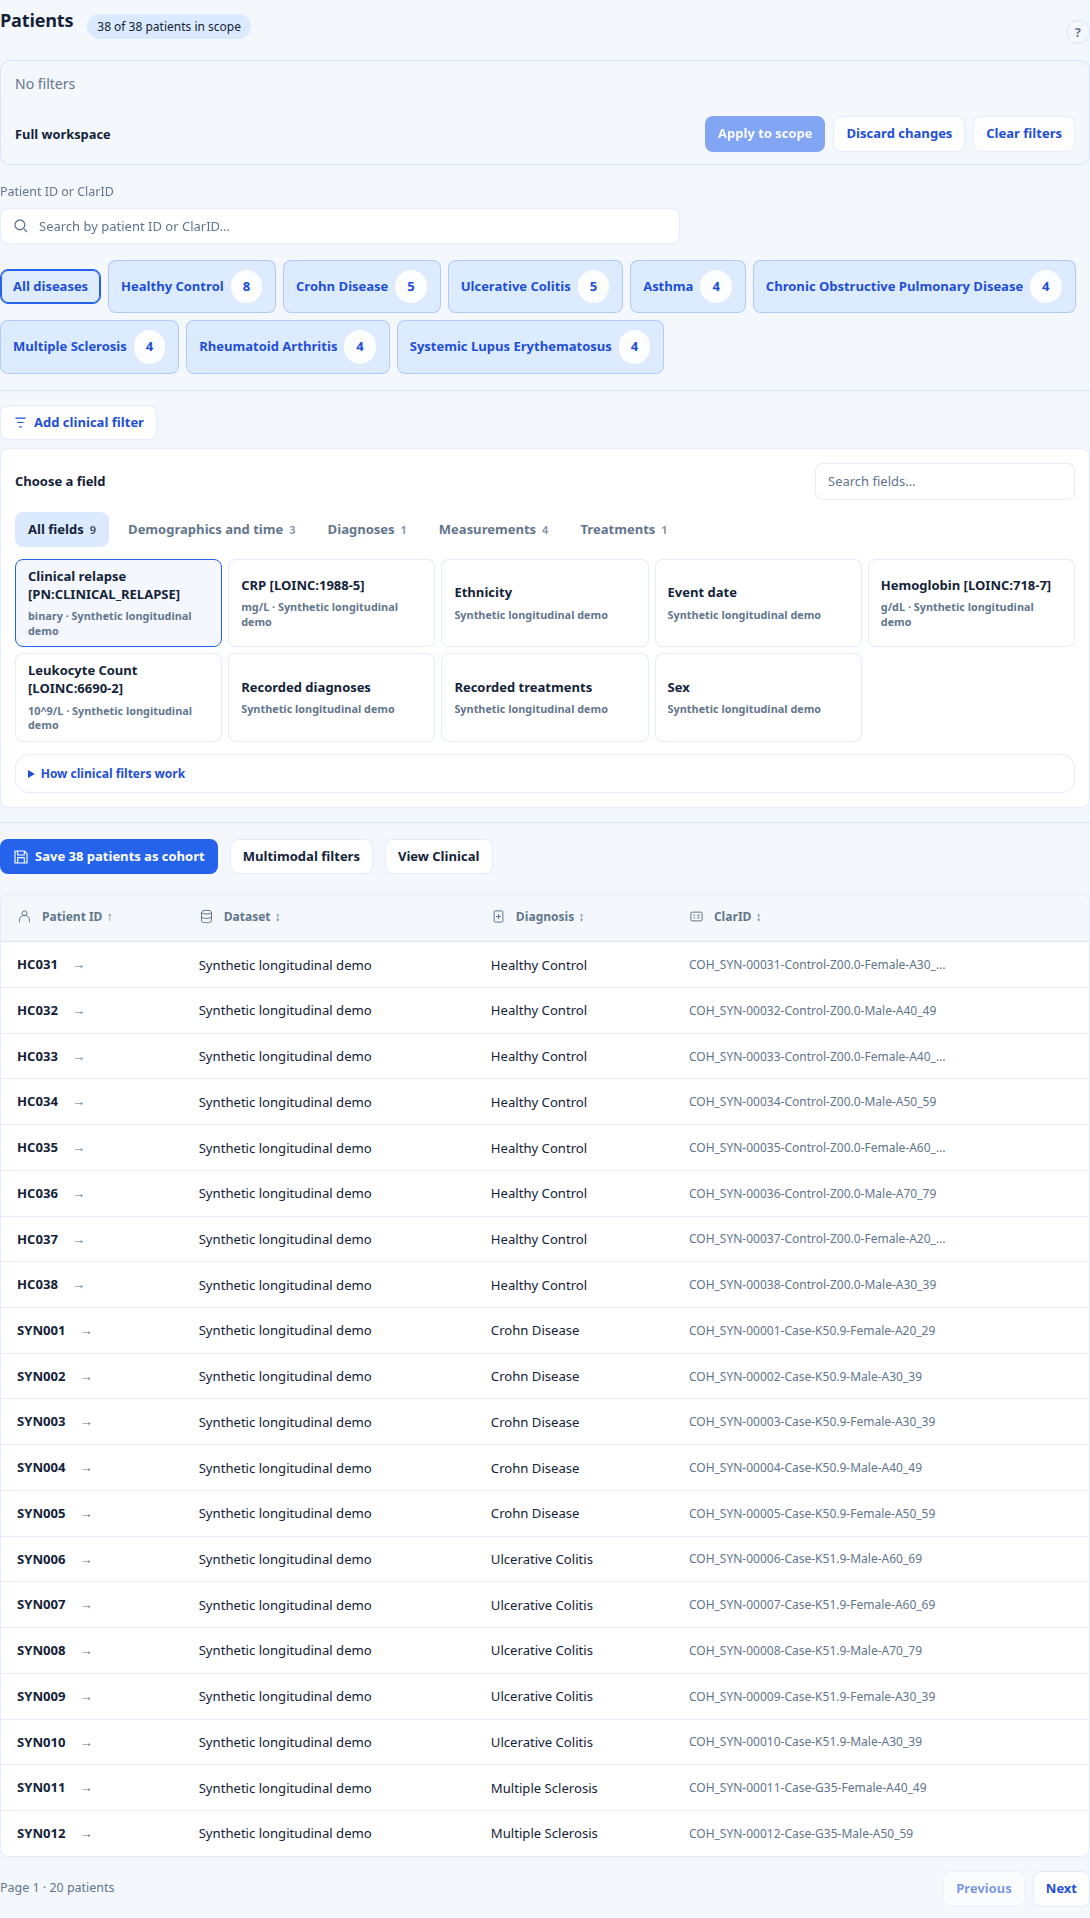
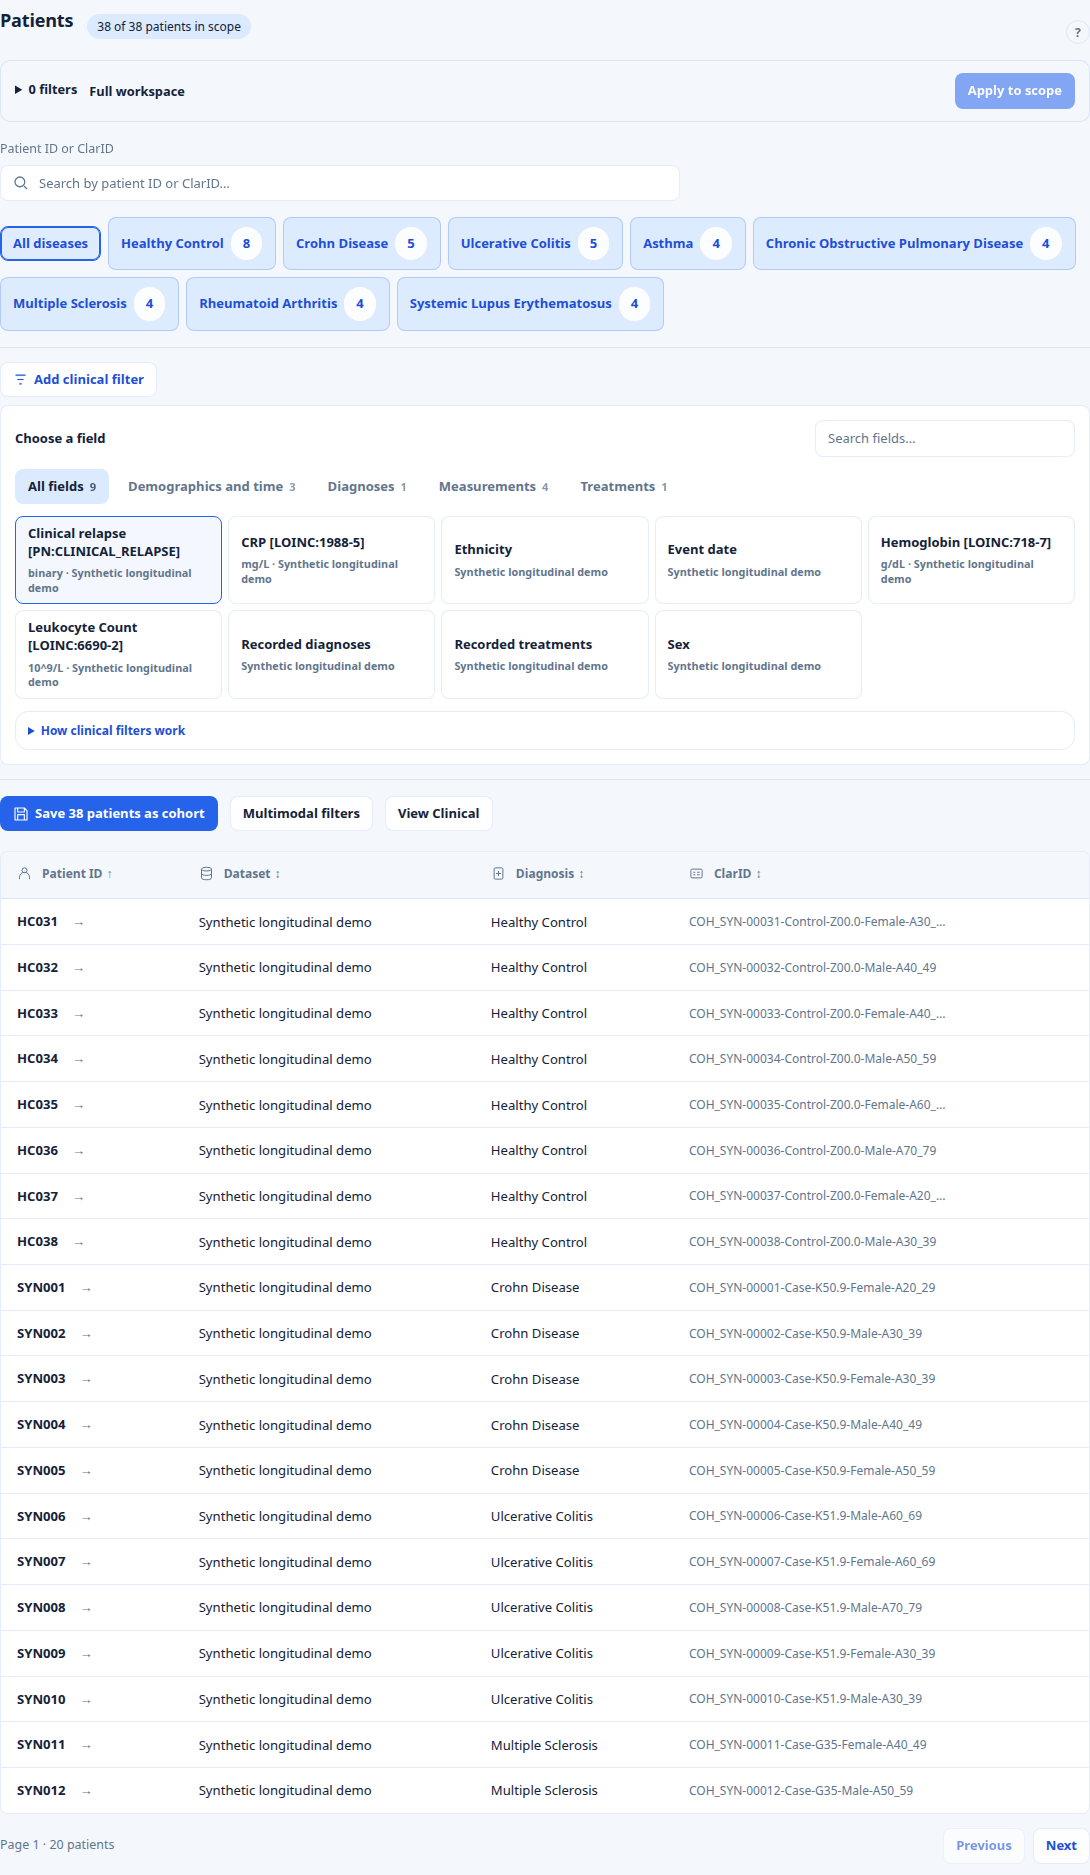
Update docs

diff --git a/scripts/capture_docs_screenshots.py b/scripts/capture_docs_screenshots.py
@@ -8,6 +8,7 @@ General-question reply. Only the example prompt is sent, not dataset records.
 Use --walkthrough-video to refresh the small silent multimodal clip and poster.
 Use --updated-views for the dataset, patient, assay, variant and multimodal screenshots.
 Use --cohort-scope for shared filters, clinical statistics and local-agent settings.
+Use --selection-views for patient filters, multimodal selection and Timeline.
 Use --biosamples-demo PATH with the public CINECA + GEUVADIS package for two biosample views.
 """
 from __future__ import annotations
@@ -65,11 +66,12 @@ def main() -> int:
     parser.add_argument('--updated-views', action='store_true', help='Capture only dataset, patient, assay, variant and multimodal views')
     parser.add_argument('--cohort-scope', action='store_true', help='Capture shared filters, clinical statistics and local-agent settings using bundled demos')
     parser.add_argument('--clinical-views', action='store_true', help='Capture only Clinical charts, measurement distributions and tables using bundled demos')
+    parser.add_argument('--selection-views', action='store_true', help='Capture patient filters, multimodal selection and Timeline using bundled demos')
     parser.add_argument('--walkthrough-video', action='store_true', help='Record only the silent multimodal docs walkthrough')
     parser.add_argument('--biosamples-demo', type=Path, help='Public CINECA + GEUVADIS package root; capture only biosample views')
     args = parser.parse_args()
     if sum(bool(value) for value in (args.updated_views, args.walkthrough_video,
-                                    args.biosamples_demo, args.cohort_scope, args.clinical_views)) > 1:
+                                    args.biosamples_demo, args.cohort_scope, args.clinical_views, args.selection_views)) > 1:
         parser.error('Choose only one capture mode')
     if args.biosamples_demo:
         args.biosamples_demo = args.biosamples_demo.resolve()
@@ -266,11 +268,12 @@ if os.environ.get('LM_STUDIO_ENABLED') == 'true':
                     print('Captured patient origins and biosample inventory from the public CINECA demo.')
                     return 0
 
-                if args.cohort_scope:
+                if args.cohort_scope or args.selection_views:
                     page.locator('#dashboardTabBtn').click()
                     expect(page.locator('#contextCohort')).not_to_contain_text('Loading')
                     expect(page.locator('[data-clinical-mode="table"]')).to_be_visible()
-                    capture('workspace-shell.png')
+                    if not args.selection_views:
+                        capture('workspace-shell.png')
                     page.locator('#dashboardPatientsBtn').click()
                     panel = page.locator('#dashboardPatientsPanel')
                     expect(panel.locator('[data-match]').first).to_be_visible()
@@ -286,7 +289,13 @@ if os.environ.get('LM_STUDIO_ENABLED') == 'true':
                     page.locator('#dashboardClinicalBtn').click()
                     page.locator('[data-clinical-mode="table"]').click()
                     expect(page.locator('.clinical-stats-table').first).to_be_visible()
-                    capture('clinical-characteristics.png', '#dashboardClinicalPanel')
+                    if not args.selection_views:
+                        capture('clinical-characteristics.png', '#dashboardClinicalPanel')
+                    if args.selection_views:
+                        page.locator('#dashboardTimelineBtn').click()
+                        expect(page.locator('#timelineAvailability tbody tr').first).to_be_visible()
+                        expect(page.locator('#dashboard-plot-timeline .main-svg').first).to_be_visible()
+                        capture('dashboard-timeline.png', '#dashboardTimeline')
                     response = page.request.post(url + '/datasets/select', data={
                         'dataset_ids': ['synthetic-cross-sectional-demo']})
                     assert response.ok
@@ -294,13 +303,18 @@ if os.environ.get('LM_STUDIO_ENABLED') == 'true':
                     page.locator('#dashboardTabBtn').click()
                     page.locator('#dashboardMultimodalBtn').click()
                     coverage = page.locator('.multimodal-coverage')
-                    expect(coverage.locator('.coverage-result')).to_contain_text('90 patients in scope')
+                    expect(coverage.locator('.cohort-scope-state')).to_contain_text('90 patients match selected data types')
                     coverage.locator('[data-disease="Systemic Lupus Erythematosus"]').click()
                     coverage.locator('input[value=transcriptomics]').check()
                     coverage.locator('input[value=methylation]').check()
                     coverage.locator('[data-scope-apply]').click()
-                    expect(coverage.locator('.coverage-result')).to_contain_text('28 patients in scope', timeout=30000)
+                    expect(coverage.locator('.cohort-scope-state')).to_contain_text('28 patients match selected data types', timeout=30000)
+                    expect(coverage.locator('.cohort-scope-pending')).to_be_hidden()
                     capture('multimodal-selection.png', '.multimodal-coverage')
+                    if args.selection_views:
+                        browser.close()
+                        print(f'Captured {len(captured)} selection views from bundled synthetic data.')
+                        return 0
                     page.locator('#accountMenuButton').click()
                     page.locator('#userSettingsBtn').click()
                     page.locator('[data-settings-section="query"]').click()

diff --git a/docs-site/docs/user-guide/dashboard.md b/docs-site/docs/user-guide/dashboard.md
@@ -39,7 +39,7 @@ Identical IDs from different datasets remain separate.
 
 Choose **Add clinical filter**, browse the available fields and set a condition.
 Combine rules with disease, sample-origin and ID filters. Patients and Multimodal
-share the same draft, shown as removable labels in both views.
+share the same draft. Expand **Filters** in either view to inspect or remove its rules.
 
 ![Available clinical filter fields in the synthetic longitudinal demo](/img/screenshots/clinical-filter-fields.png)
 
@@ -153,18 +153,22 @@ necessarily represent distinct biological specimens.
 
 ## Timeline
 
-1. Choose one dataset or all active datasets.
-2. Use **Has data** to require a data type, such as Proteomics.
-3. Select several types to require all of them.
-4. Click a marker, patient name, or grey span for details.
+Timeline displays the **applied patient scope**. To select patients by data
+availability, use **Multimodal**, then **Apply to scope**.
+
+1. View all datasets in scope or choose one dataset.
+2. Choose **Calendar dates** or **Study days**.
+3. Click a marker, patient name, or grey span for details.
+
+![Timeline showing data availability for a selected synthetic cohort](/img/screenshots/dashboard-timeline.png)
 
 The plot shows 40 patients per page. Legend controls change visible markers,
-not which patients match the filter.
+not the patient scope.
 
 Grey spans run from the earliest to the latest recorded observation; they do
 not imply continuous monitoring. Undated assays appear under **Date not
-recorded**, rather than being assigned an estimated visit. Dates are calendar
-dates, not aligned study visits.
+recorded**, rather than being assigned an estimated visit. **Study days** uses
+recorded offsets from each participant's baseline; it does not infer dates.
 
 OLINK appears under Proteomics. Imaging markers represent derived measurements;
 DICOM studies are listed in Imaging.
